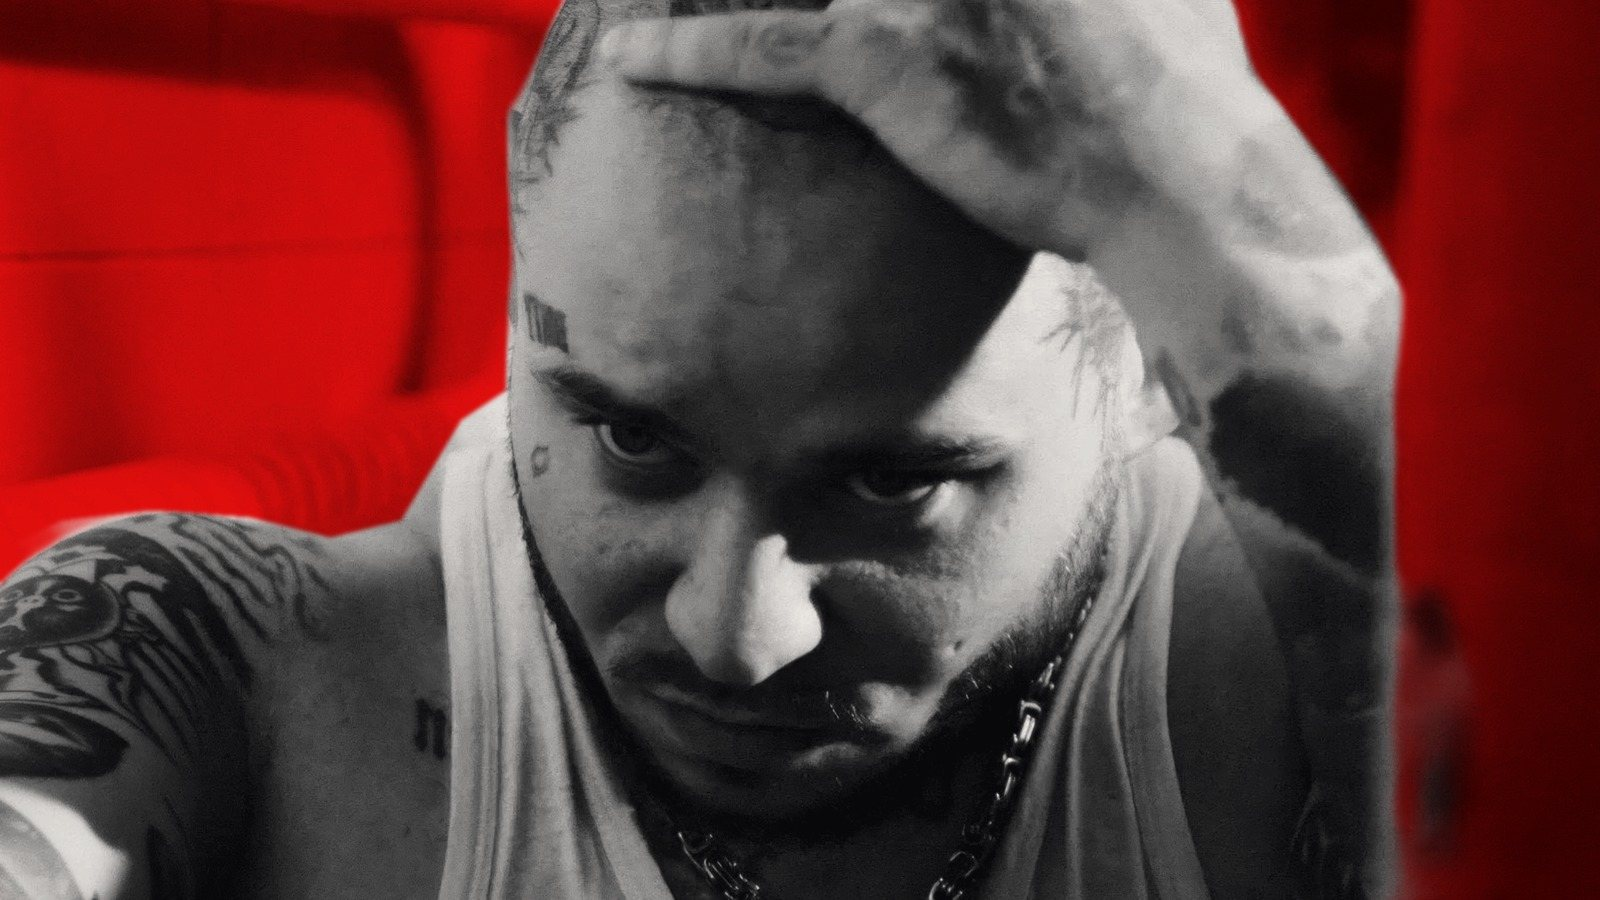
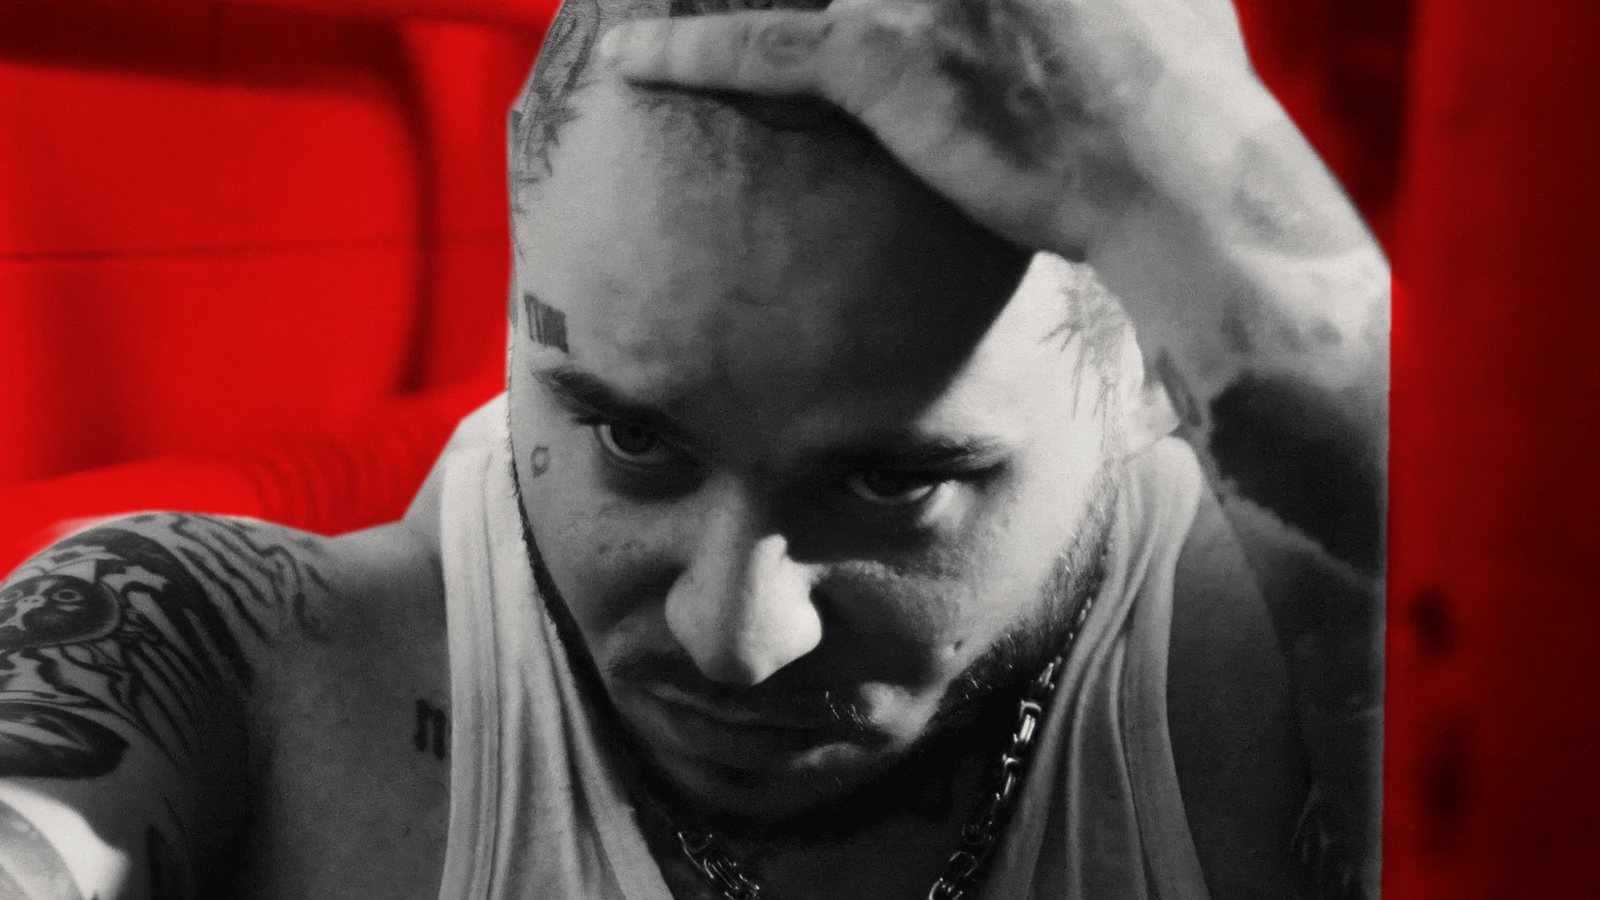
Сбер: красные только рука и тонарм; RAM без ореола на стойке, надпись сверху в одну строку; Нежный редактор: дорисована нога, надпись снизу; ГМИИ надпись снизу, Сбер по центру
Claude-Session: https://claude.ai/code/session_01Qo9VwUVFzJqu7E8YznFKai

Changed region(s): [[0.8438, 0.3111, 0.9062, 1.0]]

diff --git a/index.html b/index.html
@@ -57,7 +57,7 @@ ENERGY</span>
 <span class="sr">Big Brands: AVI Commercial</span>
 <span class="line" aria-hidden="true"></span>
 </a>
-<a class="card has-cover at-top" href="work/pushkin-museum/">
+<a class="card has-cover at-bottom" href="work/pushkin-museum/">
 <img src="assets/img/pushkin.jpg?v=3816dea2" alt="" loading="lazy" decoding="async"><img class="alt" src="assets/img/pushkin-color.jpg?v=3e8acc10" alt="" loading="lazy" decoding="async"><span class="shade" aria-hidden="true"></span><span class="t long" aria-hidden="true">ГМИИ ИМ. ПУШКИНА
 PROMO</span>
 <span class="sr">ГМИИ им. Пушкина — Excursions Promo</span>
@@ -78,15 +78,14 @@ PROMO</span>
 <section id="music" class="wrap sec">
 <div class="sec-head"><span class="num" aria-hidden="true">02</span><h2>Музыкальные видео</h2></div>
 <div class="grid">
-<a class="card has-cover at-top" href="work/sber-technology/">
-<img src="assets/img/sber.jpg?v=3954a5c7" alt="" loading="lazy" decoding="async"><img class="alt" src="assets/img/sber-color.jpg?v=f6e10847" alt="" loading="lazy" decoding="async"><span class="shade" aria-hidden="true"></span><span class="t long" aria-hidden="true">SBER AI X FILATOV &amp; KARAS
+<a class="card has-cover" href="work/sber-technology/">
+<img src="assets/img/sber.jpg?v=a6366674" alt="" loading="lazy" decoding="async"><img class="alt" src="assets/img/sber-color.jpg?v=f6e10847" alt="" loading="lazy" decoding="async"><span class="shade" aria-hidden="true"></span><span class="t long" aria-hidden="true">SBER AI X FILATOV &amp; KARAS
 «TECHNOLOGY»</span>
 <span class="sr">SBER AI, Filatov &amp; Karas — «Technology»</span>
 <span class="line" aria-hidden="true"></span>
 </a>
-<a class="card has-cover at-bottom" href="work/ram-king-of-monkeys/">
-<img src="assets/img/ram.jpg?v=6bb69c91" alt="" loading="lazy" decoding="async"><img class="alt" src="assets/img/ram-color.jpg?v=c3cac4be" alt="" loading="lazy" decoding="async"><span class="shade" aria-hidden="true"></span><span class="t" aria-hidden="true">RAM —
-КОРОЛЬ ОБЕЗЬЯН</span>
+<a class="card has-cover at-top" href="work/ram-king-of-monkeys/">
+<img src="assets/img/ram.jpg?v=f0f35ccb" alt="" loading="lazy" decoding="async"><img class="alt" src="assets/img/ram-color.jpg?v=c3cac4be" alt="" loading="lazy" decoding="async"><span class="shade" aria-hidden="true"></span><span class="t long one" aria-hidden="true">RAM — КОРОЛЬ ОБЕЗЬЯН</span>
 <span class="sr">RAM — Король Обезьян</span>
 <span class="line" aria-hidden="true"></span>
 </a>
@@ -95,8 +94,8 @@ PROMO</span>
 <section id="youtube" class="wrap sec">
 <div class="sec-head"><span class="num" aria-hidden="true">03</span><h2>YouTube</h2></div>
 <div class="grid">
-<a class="card has-cover at-top" href="work/nezhny-redaktor/">
-<img src="assets/img/nezhny.jpg?v=92468606" alt="" loading="lazy" decoding="async"><img class="alt" src="assets/img/nezhny-color.jpg?v=db4fc945" alt="" loading="lazy" decoding="async"><span class="shade" aria-hidden="true"></span><span class="t long" aria-hidden="true">НЕЖНЫЙ РЕДАКТОР</span>
+<a class="card has-cover at-bottom" href="work/nezhny-redaktor/">
+<img src="assets/img/nezhny.jpg?v=19ef74e8" alt="" loading="lazy" decoding="async"><img class="alt" src="assets/img/nezhny-color.jpg?v=db4fc945" alt="" loading="lazy" decoding="async"><span class="shade" aria-hidden="true"></span><span class="t long" aria-hidden="true">НЕЖНЫЙ РЕДАКТОР</span>
 <span class="sr">Нежный Редактор. Подкаст</span>
 <span class="line" aria-hidden="true"></span>
 </a>

diff --git a/work/ram-king-of-monkeys/index.html b/work/ram-king-of-monkeys/index.html
@@ -33,7 +33,7 @@
 <p class="cat">02 · Музыкальные видео</p>
 <h1>RAM — Король Обезьян</h1>
 </section>
-<div class="wrap"><div class="player" data-src="https://www.youtube-nocookie.com/embed/pOv_AkQMyEU?rel=0&amp;modestbranding=1&amp;autoplay=1" data-title="RAM — Король Обезьян"><button class="poster" type="button" aria-label="Смотреть: RAM — Король Обезьян"><img src="../../assets/img/ram.jpg?v=6bb69c91" alt="" decoding="async"><img class="alt" src="../../assets/img/ram-color.jpg?v=c3cac4be" alt="" decoding="async"><span class="play" aria-hidden="true"><svg viewBox="0 0 24 24"><path d="M8 5.5v13l11-6.5z"/></svg></span></button><noscript><iframe src="https://www.youtube-nocookie.com/embed/pOv_AkQMyEU?rel=0&amp;modestbranding=1" title="RAM — Король Обезьян" allow="autoplay; fullscreen; picture-in-picture; encrypted-media; gyroscope; accelerometer; clipboard-write; screen-wake-lock" allowfullscreen></iframe></noscript></div></div>
+<div class="wrap"><div class="player" data-src="https://www.youtube-nocookie.com/embed/pOv_AkQMyEU?rel=0&amp;modestbranding=1&amp;autoplay=1" data-title="RAM — Король Обезьян"><button class="poster" type="button" aria-label="Смотреть: RAM — Король Обезьян"><img src="../../assets/img/ram.jpg?v=f0f35ccb" alt="" decoding="async"><img class="alt" src="../../assets/img/ram-color.jpg?v=c3cac4be" alt="" decoding="async"><span class="play" aria-hidden="true"><svg viewBox="0 0 24 24"><path d="M8 5.5v13l11-6.5z"/></svg></span></button><noscript><iframe src="https://www.youtube-nocookie.com/embed/pOv_AkQMyEU?rel=0&amp;modestbranding=1" title="RAM — Король Обезьян" allow="autoplay; fullscreen; picture-in-picture; encrypted-media; gyroscope; accelerometer; clipboard-write; screen-wake-lock" allowfullscreen></iframe></noscript></div></div>
 <section class="wrap">
 <div class="facts"><div><span>Клиент</span><strong>RAM</strong></div></div>
 <nav class="pn" aria-label="Соседние проекты">

diff --git a/work/nezhny-redaktor/index.html b/work/nezhny-redaktor/index.html
@@ -33,7 +33,7 @@
 <p class="cat">03 · YouTube</p>
 <h1>Нежный Редактор. Подкаст</h1>
 </section>
-<div class="wrap"><div class="player" data-src="https://www.youtube-nocookie.com/embed/ormiyZperCQ?rel=0&amp;modestbranding=1&amp;autoplay=1" data-title="Нежный Редактор. Подкаст"><button class="poster" type="button" aria-label="Смотреть: Нежный Редактор. Подкаст"><img src="../../assets/img/nezhny.jpg?v=92468606" alt="" decoding="async"><img class="alt" src="../../assets/img/nezhny-color.jpg?v=db4fc945" alt="" decoding="async"><span class="play" aria-hidden="true"><svg viewBox="0 0 24 24"><path d="M8 5.5v13l11-6.5z"/></svg></span></button><noscript><iframe src="https://www.youtube-nocookie.com/embed/ormiyZperCQ?rel=0&amp;modestbranding=1" title="Нежный Редактор. Подкаст" allow="autoplay; fullscreen; picture-in-picture; encrypted-media; gyroscope; accelerometer; clipboard-write; screen-wake-lock" allowfullscreen></iframe></noscript></div></div>
+<div class="wrap"><div class="player" data-src="https://www.youtube-nocookie.com/embed/ormiyZperCQ?rel=0&amp;modestbranding=1&amp;autoplay=1" data-title="Нежный Редактор. Подкаст"><button class="poster" type="button" aria-label="Смотреть: Нежный Редактор. Подкаст"><img src="../../assets/img/nezhny.jpg?v=19ef74e8" alt="" decoding="async"><img class="alt" src="../../assets/img/nezhny-color.jpg?v=db4fc945" alt="" decoding="async"><span class="play" aria-hidden="true"><svg viewBox="0 0 24 24"><path d="M8 5.5v13l11-6.5z"/></svg></span></button><noscript><iframe src="https://www.youtube-nocookie.com/embed/ormiyZperCQ?rel=0&amp;modestbranding=1" title="Нежный Редактор. Подкаст" allow="autoplay; fullscreen; picture-in-picture; encrypted-media; gyroscope; accelerometer; clipboard-write; screen-wake-lock" allowfullscreen></iframe></noscript></div></div>
 <section class="wrap">
 
 <nav class="pn" aria-label="Соседние проекты">

diff --git a/work/sber-technology/index.html b/work/sber-technology/index.html
@@ -33,7 +33,7 @@
 <p class="cat">02 · Музыкальные видео</p>
 <h1>SBER AI, Filatov &amp; Karas — «Technology»</h1>
 </section>
-<div class="wrap"><div class="player" data-src="https://player.vimeo.com/video/723012933?dnt=1&amp;autoplay=1" data-title="SBER AI, Filatov &amp; Karas — «Technology»"><button class="poster" type="button" aria-label="Смотреть: SBER AI, Filatov &amp; Karas — «Technology»"><img src="../../assets/img/sber.jpg?v=3954a5c7" alt="" decoding="async"><img class="alt" src="../../assets/img/sber-color.jpg?v=f6e10847" alt="" decoding="async"><span class="play" aria-hidden="true"><svg viewBox="0 0 24 24"><path d="M8 5.5v13l11-6.5z"/></svg></span></button><noscript><iframe src="https://player.vimeo.com/video/723012933?dnt=1" title="SBER AI, Filatov &amp; Karas — «Technology»" allow="autoplay; fullscreen; picture-in-picture; encrypted-media; gyroscope; accelerometer; clipboard-write; screen-wake-lock" allowfullscreen></iframe></noscript></div></div>
+<div class="wrap"><div class="player" data-src="https://player.vimeo.com/video/723012933?dnt=1&amp;autoplay=1" data-title="SBER AI, Filatov &amp; Karas — «Technology»"><button class="poster" type="button" aria-label="Смотреть: SBER AI, Filatov &amp; Karas — «Technology»"><img src="../../assets/img/sber.jpg?v=a6366674" alt="" decoding="async"><img class="alt" src="../../assets/img/sber-color.jpg?v=f6e10847" alt="" decoding="async"><span class="play" aria-hidden="true"><svg viewBox="0 0 24 24"><path d="M8 5.5v13l11-6.5z"/></svg></span></button><noscript><iframe src="https://player.vimeo.com/video/723012933?dnt=1" title="SBER AI, Filatov &amp; Karas — «Technology»" allow="autoplay; fullscreen; picture-in-picture; encrypted-media; gyroscope; accelerometer; clipboard-write; screen-wake-lock" allowfullscreen></iframe></noscript></div></div>
 <section class="wrap">
 <div class="facts"><div><span>Клиент</span><strong>SBER AI</strong></div></div>
 <nav class="pn" aria-label="Соседние проекты">

diff --git a/assets/style.css b/assets/style.css
@@ -170,4 +170,5 @@ img{display:block;max-width:100%}
   .card .t{font-size:min(13cqi,60px);padding:0 6cqi;max-width:100%;box-sizing:border-box;overflow-wrap:break-word}
   .card .t.long{font-size:min(10.5cqi,48px)}
   .card.at-top .t,.card.at-bottom .t{font-size:min(10cqi,42px);padding:0 5cqi}
+  .card .t.one{font-size:min(8cqi,36px)}
 }

diff --git a/build.py b/build.py
@@ -137,7 +137,7 @@ def card(p, base):
           if p.get("cover") else "")
     pos = f" at-{p['text_pos']}" if p.get("text_pos") in ("top", "bottom") else ""
     return f"""<a class="card{tone}{' has-cover' if p.get('cover') else ''}{pos}" href="{base}work/{p['slug']}/">
-{bg}<span class="t{" long" if longest > 14 else ""}" aria-hidden="true">{e(p["card"])}</span>
+{bg}<span class="t{" long" if longest > 14 else ""}{" one" if (pos and "\n" not in p["card"] and len(p["card"]) > 16) else ""}" aria-hidden="true">{e(p["card"])}</span>
 <span class="sr">{e(p['title'])}</span>
 <span class="line" aria-hidden="true"></span>
 </a>"""
